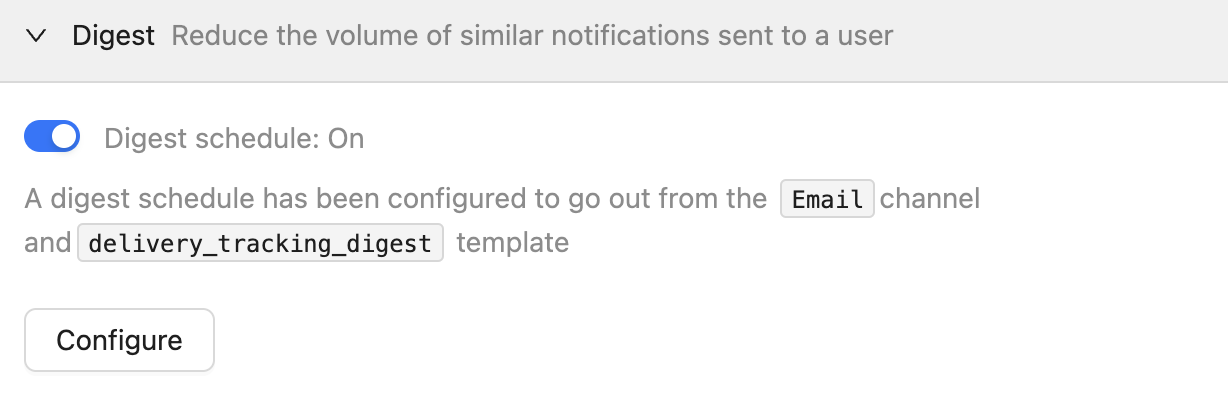
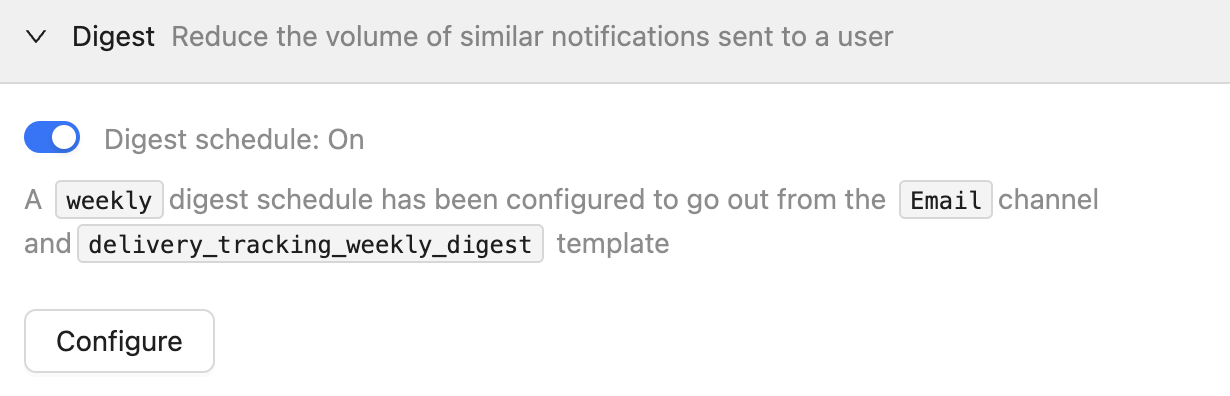
comments

diff --git a/docs/features/digest.md b/docs/features/digest.md
@@ -12,24 +12,34 @@ The NotificationAPI's Digest feature allows for the creation of recurring user d
 
 ### Design Performance Summarization
 
-In collaborative platforms, each view, comment, like, and approval of a design generates an event. Instead of sending separate notifications for each event, the Digest feature consolidates these into a single notification. At the scheduled time, the digest compiles and sends a summarized report of all interactions, streamlining communication for the author.
-
-### Status Monitoring by IoT
-
-For a scooter-sharing company, it's essential to monitor the health of each scooter. The Digest feature can compile events related to battery and brake health after each ride, providing maintainers with a comprehensive weekly report.
+In collaborative platforms, each view and like of a design generates an event. Instead of sending separate notifications for each event, the Digest feature consolidates these into a single notification. At the scheduled time, the digest compiles and sends a summarized report of all interactions, streamlining communication for the author.
 
 ### Truck Driver Schedule
 
-In the food supply chain, truck drivers need a daily schedule for pickups and deliveries. The Digest feature can be used to send these schedules, ensuring efficient and timely operations.
+For administrators overseeing food supply chains, a daily overview of all pickups and deliveries is crucial. The Digest feature provides these summaries, promoting effective and timely operations management.
 
-## How It Works
+## How does it work?
 
-- Configuration: Access the Digest settings in the NotificationAPI's configure tab. Here, you set the digest schedule. While one schedule is mandatory, multiple schedules can be configured to accommodate user preferences.
-
-- User Preferences: Multiple schedules appear as options on [the hosted preferences page](../components//user-preferences.md), allowing users to select their preferred schedule.
-
-- Template Selection: During setup, select a default digest schedule, channel, and template. Ensure the template is designed to suit digest notifications.
+1. Configuration: Access the Digest settings in the NotificationAPI's configuration tab to set up the digest schedule. While one schedule is mandatory, you can configure multiple to meet diverse user needs. Select one as the default for the system.
 
 import img from '@site/static/NotificationAPI - Notifications as a service - digest.png';
 
-<img src={img} style={{maxWidth: 480, borderRadius: 20, border: '1px solid #d9d9d9' }} />
+<img src={img} style={{maxWidth: 480, borderRadius: 20, border: '1px solid #d9d9d9' , marginLeft: 50}} />
+
+2. Design: During setup, choose a default digest schedule, notification channel, and template. The template should be specifically designed for digest-style notifications.
+
+3. System Behavior: Consider this scenario - you enable a digest for order_tracking notifications, choose email as the channel, select delivery_tracking_weekly_digest as the email template, and set Weekly as the default schedule. The system will collate all order_tracking notifications received during the week and send a single email using the chosen template.
+
+- Note: If there are no notifications for a user in the specified period, the system will not send a digest.
+
+4. User Preferences: Multiple schedules appear as options on [the hosted preferences page](../components//user-preferences.md), allowing users to select their preferred schedule.
+
+## Frequently Asked Questions (FAQs)
+
+### How does digest work with throttling?
+
+`Throttling` has a higher priority. If both settings are active for a notification and the `Throttling` criteria are met first, subsequent notifications will be discarded and not included in the digest. For example, with `Throttling` set to allow 5 `order_tracking` notifications per hour and a `Daily` digest, the 6th notification within the same hour will be ignored.
+
+### How does digest work with deduplication?
+
+`Deduplication` has a higher priority. If both are active and a notification meets the `Deduplication` criteria, it will be discarded and excluded from the digest. For instance, with a 1-hour `Deduplication` window and a `Daily` digest, any duplicated notification within that hour will be ignored.

diff --git a/docs/reference/js-client.md b/docs/reference/js-client.md
@@ -375,10 +375,10 @@ notificationapi.showUserPreferences();
 | email     | string | The email of the user.                                       |
 | phone     | string | The phone number of the user. Expected format: +15554443333. |
 
-## Frequently Asked Questions (FAQ)
+## Frequently Asked Questions (FAQs)
 
 ### Why Can I Not Send Notifications from a Front-end SDK?
 
-NotificationAPI back-end SDKs require your `clientId` and `clientSecret` keys that are unique to your account. If anyone else obtained your keys then they would be able to edit or delete your notifications, and be able to send requests to NotificationAPI from your account. This is a security risk to you and your clients. 
+NotificationAPI back-end SDKs require your `clientId` and `clientSecret` keys that are unique to your account. If anyone else obtained your keys then they would be able to edit or delete your notifications, and be able to send requests to NotificationAPI from your account. This is a security risk to you and your clients.
 
 To better protect you, the NotificationAPI front-end SDKs do not allow _sending_ notifications: they only allow _receiving_ notifications. If you require sending notifications from your front-end, it is recommended to use a NotificationAPI back-end SDK on your back-end and expose an API for your front-end.
